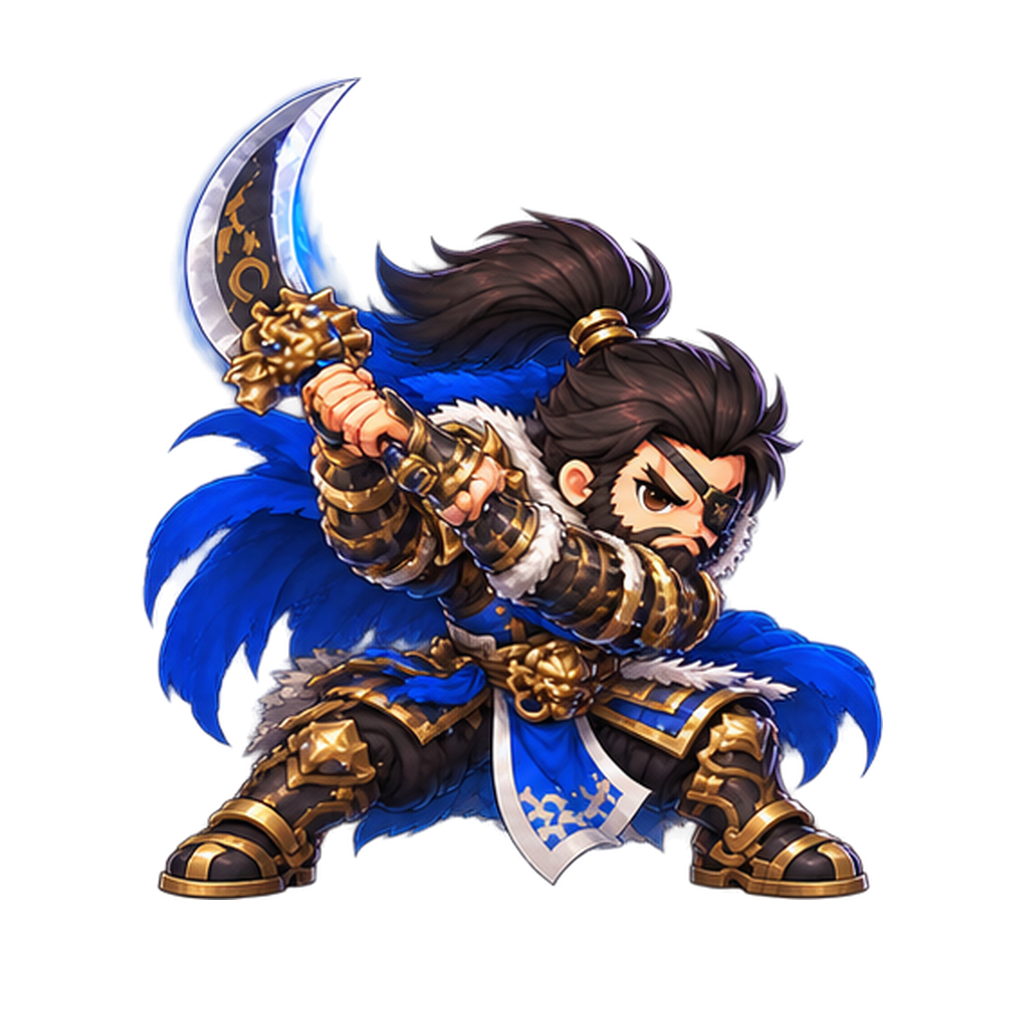
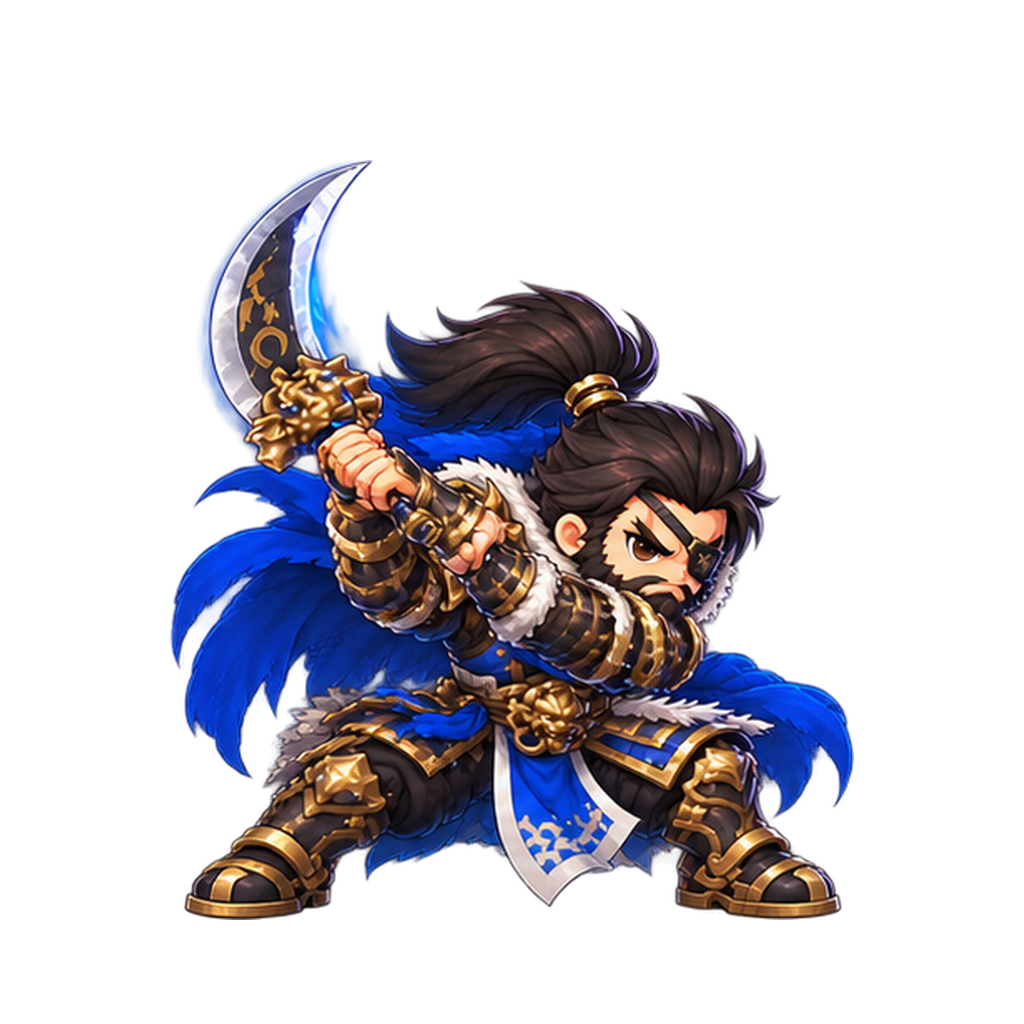
fix: stabilize Xiahou Dun combat scale

diff --git a/js/season2-data.js b/js/season2-data.js
@@ -14,7 +14,7 @@ const SEASON2_UNITS={
   s2Crossbow:{name:'強弩兵',cost:100,emoji:'🏹',hp:160,damage:32,rate:2000,range:9,cooldown:4800,desc:'校射：連續射擊同一目標，每次傷害提高 20%，最多 60%；換目標歸零。'},
   s2Shield:{name:'大盾兵',cost:75,emoji:'🛡',hp:470,damage:14,rate:1400,range:.8,cooldown:7000,clearRequired:1,desc:'列盾：脫離交戰 4 秒後架盾，正面傷害減少 40%。'},
   s2Halberd:{name:'長戟兵',cost:125,emoji:'🔱',hp:260,damage:38,rate:1500,range:1.6,cooldown:6500,clearRequired:2,desc:'拒馬列戟：攔截快速突進，追加 55 傷害並中止突進。'},
-  s2Xiahou:{name:'夏侯惇',cost:150,emoji:'⚔',hp:440,damage:58,rate:1450,range:1.05,cooldown:8000,clearRequired:3,attackFrames:Array.from({length:8},(_,index)=>`assets/characters/future-generals/wei-season2/xiahou-dun/attack-${String(index).padStart(2,'0')}.webp`),attackFrameDurations:[90,80,100,65,150,65,80,100],attackHitAt:335,desc:'拔矢不屈：受傷累積怒氣；滿怒後下一刀追加 60 傷害並短暫減傷。'},
+  s2Xiahou:{name:'夏侯惇',cost:150,emoji:'⚔',hp:440,damage:58,rate:1450,range:1.05,cooldown:8000,clearRequired:3,battleAsset:'assets/characters/future-generals/wei-season2/xiahou-dun/idle.webp',attackFrames:Array.from({length:8},(_,index)=>`assets/characters/future-generals/wei-season2/xiahou-dun/attack-${String(index).padStart(2,'0')}.webp`),attackFrameDurations:[90,80,100,65,150,65,80,100],attackHitAt:335,desc:'拔矢不屈：受傷累積怒氣；滿怒後下一刀追加 60 傷害並短暫減傷。'},
   s2DianWei:{name:'典韋',cost:165,emoji:'🗡',hp:560,damage:52,rate:1350,range:1,cooldown:8500,clearRequired:4,desc:'帳前死衛：替同路緊鄰後方友軍分擔 35% 傷害，並以雙戟重擊反擊。'},
   s2XuChu:{name:'許褚',cost:185,emoji:'🔨',hp:720,damage:70,rate:2100,range:.9,cooldown:9500,clearRequired:5,desc:'虎軀鎮關：高生命重坦，重錘有機率讓一般敵人短暫停步。'},
   s2ZhangLiao:{name:'張遼',cost:180,emoji:'🏇',hp:400,damage:62,rate:1300,range:1.4,cooldown:8500,clearRequired:6,desc:'先登破陣：標記首次接戰目標，使同路友軍對它造成更高傷害。'},

diff --git a/tests/season2-xiahou-animation.spec.js b/tests/season2-xiahou-animation.spec.js
@@ -33,3 +33,17 @@ test('Xiahou Dun uses eight aligned attack frames and lands damage on the fifth 
   expect(response.ok(),src).toBe(true);
  }
 });
+
+test('Xiahou Dun keeps one visual scale and baseline from idle through every attack frame',async({page})=>{
+ await open(page);
+ const visible=await page.evaluate(async()=>{
+  const bounds=async src=>{const image=new Image();image.src=src;await image.decode();const canvas=document.createElement('canvas');canvas.width=image.naturalWidth;canvas.height=image.naturalHeight;const context=canvas.getContext('2d');context.drawImage(image,0,0);const {data,width,height}=context.getImageData(0,0,canvas.width,canvas.height);let left=width,top=height,right=-1,bottom=-1;for(let y=0;y<height;y++)for(let x=0;x<width;x++)if(data[(y*width+x)*4+3]>8){left=Math.min(left,x);top=Math.min(top,y);right=Math.max(right,x);bottom=Math.max(bottom,y)}return {width:right-left+1,height:bottom-top+1,bottom:bottom+1,canvasHeight:height}};
+  const d=SEASON2_UNITS.plants.s2Xiahou;
+  return {idle:await bounds(d.battleAsset||d.asset),frames:await Promise.all(d.attackFrames.map(bounds))};
+ });
+ for(const [index,frame] of visible.frames.entries()){
+  expect(frame.height/visible.idle.height,`frame ${index+1} visible height`).toBeGreaterThan(.92);
+  expect(frame.height/visible.idle.height,`frame ${index+1} visible height`).toBeLessThan(1.08);
+  expect(Math.abs((frame.canvasHeight-frame.bottom)-(visible.idle.canvasHeight-visible.idle.bottom)),`frame ${index+1} baseline`).toBeLessThanOrEqual(4);
+ }
+});

diff --git a/scripts/extract_xiahou_attack.py b/scripts/extract_xiahou_attack.py
@@ -3,11 +3,11 @@
 from pathlib import Path
 from PIL import Image, ImageChops, ImageDraw
 import hashlib
-import shutil
 
 ROOT = Path(__file__).resolve().parents[1]
-SOURCE = Path.home() / ".hermes/image_cache/img_e6e924cdb809.png"
 OUT = ROOT / "assets/characters/future-generals/wei-season2/xiahou-dun"
+SOURCE = OUT / "source-attack-sheet.png"
+IDLE_SOURCE = OUT.parent / "xiahou-dun.webp"
[1 lines of base64/hex data omitted]
 # Connected visible-component bounds, ordered top-left to bottom-right.
 BOUNDS = [
@@ -21,8 +21,27 @@ BOUNDS = [
     (1368, 492, 1772, 850),
 ]
 CANVAS = 1024
-SCALE = 1.8
-BASELINE = 900
+TARGET_VISIBLE_HEIGHT = 760
+BASELINE = 920
+
+
+def render_aligned(frame):
+    scale = TARGET_VISIBLE_HEIGHT / frame.height
+    width = round(frame.width * scale)
+    frame = frame.resize((width, TARGET_VISIBLE_HEIGHT), Image.Resampling.LANCZOS)
+    if frame.width > CANVAS:
+        raise SystemExit(f"Normalized frame is wider than the canvas: {frame.size}")
+    canvas = Image.new("RGBA", (CANVAS, CANVAS), (0, 0, 0, 0))
+    canvas.alpha_composite(frame, ((CANVAS - frame.width) // 2, BASELINE - frame.height))
+    return canvas
+
+
+def build_idle():
+    image = Image.open(IDLE_SOURCE).convert("RGBA")
+    box = image.getchannel("A").point([255 if value > 8 else 0 for value in range(256)]).getbbox()
+    if not box:
+        raise SystemExit("Xiahou Dun idle portrait has no visible pixels")
+    render_aligned(image.crop(box)).save(OUT / "idle.webp", "WEBP", lossless=True, method=6)
 
 
 def main():
@@ -34,7 +53,6 @@ def main():
     if image.size != (1774, 887):
         raise SystemExit(f"Unexpected source dimensions: {image.size}")
     OUT.mkdir(parents=True, exist_ok=True)
-    shutil.copyfile(SOURCE, OUT / "source-attack-sheet.png")
     alpha = image.getchannel("A")
     binary = alpha.point([255 if value > 8 else 0 for value in range(256)])
     for index, box in enumerate(BOUNDS):
@@ -59,16 +77,9 @@ def main():
         component_box = isolated.getbbox()
         if not component_box:
             raise SystemExit(f"Empty connected component for frame {index}")
-        frame = isolated.crop(component_box)
-        frame = frame.resize(
-            (round(frame.width * SCALE), round(frame.height * SCALE)),
-            Image.Resampling.LANCZOS,
-        )
-        canvas = Image.new("RGBA", (CANVAS, CANVAS), (0, 0, 0, 0))
-        x = (CANVAS - frame.width) // 2
-        y = BASELINE - frame.height
-        canvas.alpha_composite(frame, (x, y))
+        canvas = render_aligned(isolated.crop(component_box))
         canvas.save(OUT / f"attack-{index:02d}.webp", "WEBP", lossless=True, method=6)
+    build_idle()
     print(f"generated {len(BOUNDS)} frames in {OUT}")
 
 
